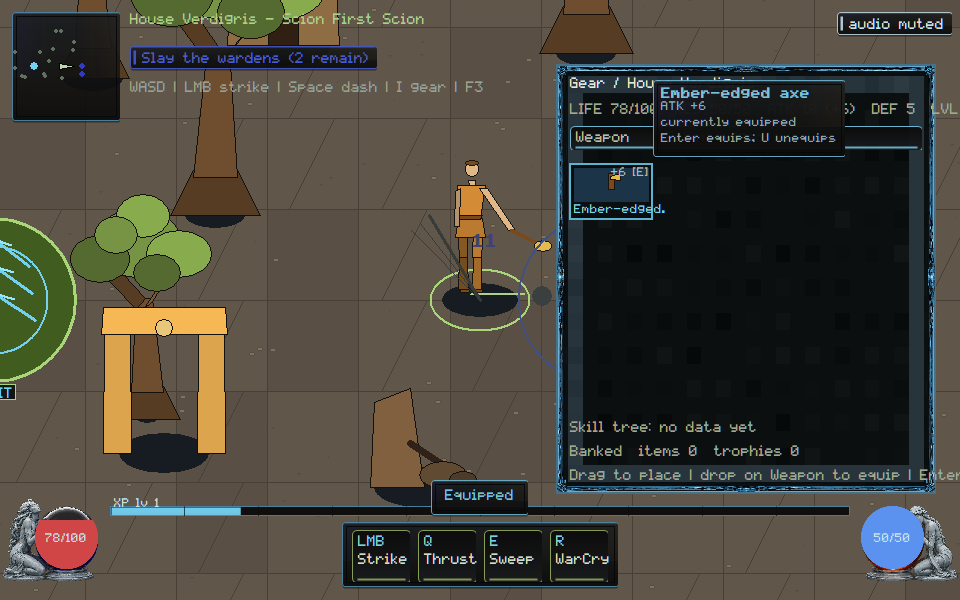
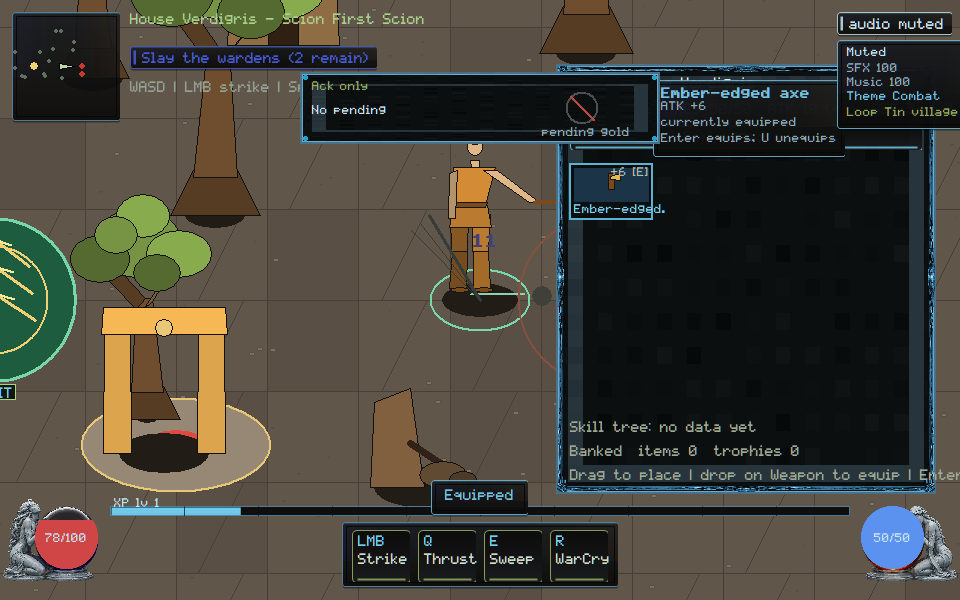
native: name ack-only equip, Base Gear sources, and software quad so pending gold, dormant ATK, and unknown GPU cannot certify

diff --git a/native/client/main.cpp b/native/client/main.cpp
@@ -508,6 +508,9 @@ struct ClientState {
   bool visual_target_review_strip = false;
   bool route_map_review_strip = false;
   bool vital_orbs_review_strip = false;
+  bool equipment_review_strip = false;
+  bool stat_explain_review_strip = false;
+  bool gpu_sample_review_strip = false;
   bool debug_overlay = false;
   // Last full paint_scene duration in milliseconds (F3 overlay); the honest
   // per-frame budget readout that catches presentation-cost regressions.
@@ -7706,6 +7709,123 @@ void paint_vital_orbs_review_strip(ClientState& state, HDC dc, const RECT& bound
   SelectObject(dc, old_font);
 }
 
+void paint_equipment_review_strip(ClientState& state, HDC dc, const RECT& bounds,
+                                  render::List& rl) {
+  if (!state.equipment_review_strip) return;
+  const int s = hud_scale(static_cast<int>(bounds.bottom));
+  const int pane_w = 360 * s;
+  const int pane_h = 72 * s;
+  const int left = (static_cast<int>(bounds.right) - pane_w) / 2;
+  const int top = 72 * s;
+  RECT pane{left, top, left + pane_w, top + pane_h};
+  if (!draw_framekit_nine(state.billboards, dc, state.billboards.fk_panel, pane))
+    skin::panel(dc, pane, skin::kVerdigris, 235, 8.0f);
+  rl.push_back({render::Op::Hud, static_cast<double>(left),
+                static_cast<double>(top), 0.0, 1, "equipment-strip"});
+  SetBkMode(dc, TRANSPARENT);
+  HGDIOBJ old_font = SelectObject(dc, skin::font_small());
+  SetTextColor(dc, skin::kVerdigris);
+  const char* title = verdigris::client::ui::owner_ack_only_label();
+  TextOutA(dc, left + 12 * s, top + 8 * s, title, static_cast<int>(strlen(title)));
+  SetTextColor(dc, skin::kInk);
+  const char* body = verdigris::client::ui::owner_no_pending_label();
+  TextOutA(dc, left + 12 * s, top + 32 * s, body, static_cast<int>(strlen(body)));
+  const int rx = left + pane_w - 78 * s;
+  const int ry = top + 36 * s;
+  ring_ellipse(dc, rx, ry, 16 * s, 16 * s, RGB(80, 80, 80), 2);
+  draw_line(dc, rx - 12 * s, ry - 12 * s, rx + 12 * s, ry + 12 * s, RGB(185, 72, 69),
+            2);
+  SetTextColor(dc, skin::kInkDim);
+  const char* rejected = "pending gold";
+  TextOutA(dc, rx - 40 * s, top + pane_h - 18 * s, rejected,
+           static_cast<int>(strlen(rejected)));
+  rl.push_back({render::Op::Hud, static_cast<double>(left + 12 * s),
+                static_cast<double>(top + 8 * s), 0.0, 1, "ui:ack-only"});
+  rl.push_back({render::Op::Hud, static_cast<double>(left + 12 * s),
+                static_cast<double>(top + 32 * s), 0.0, 1, "ui:no-pending"});
+  rl.push_back({render::Op::Hud, static_cast<double>(rx), static_cast<double>(ry),
+                0.0, 0, "ui-strip:pending-gold-rejected"});
+  SelectObject(dc, old_font);
+}
+
+void paint_stat_explain_review_strip(ClientState& state, HDC dc, const RECT& bounds,
+                                     render::List& rl) {
+  if (!state.stat_explain_review_strip) return;
+  const int s = hud_scale(static_cast<int>(bounds.bottom));
+  const int pane_w = 360 * s;
+  const int pane_h = 72 * s;
+  const int left = (static_cast<int>(bounds.right) - pane_w) / 2;
+  const int top = 72 * s;
+  RECT pane{left, top, left + pane_w, top + pane_h};
+  if (!draw_framekit_nine(state.billboards, dc, state.billboards.fk_panel, pane))
+    skin::panel(dc, pane, skin::kVerdigris, 235, 8.0f);
+  rl.push_back({render::Op::Hud, static_cast<double>(left),
+                static_cast<double>(top), 0.0, 1, "stat-explain-strip"});
+  SetBkMode(dc, TRANSPARENT);
+  HGDIOBJ old_font = SelectObject(dc, skin::font_small());
+  SetTextColor(dc, skin::kVerdigris);
+  const char* title = verdigris::client::ui::owner_base_gear_label();
+  TextOutA(dc, left + 12 * s, top + 8 * s, title, static_cast<int>(strlen(title)));
+  SetTextColor(dc, skin::kInk);
+  const char* body = verdigris::client::ui::owner_cond_off_label();
+  TextOutA(dc, left + 12 * s, top + 32 * s, body, static_cast<int>(strlen(body)));
+  const int rx = left + pane_w - 78 * s;
+  const int ry = top + 36 * s;
+  ring_ellipse(dc, rx, ry, 16 * s, 16 * s, RGB(80, 80, 80), 2);
+  draw_line(dc, rx - 12 * s, ry - 12 * s, rx + 12 * s, ry + 12 * s, RGB(185, 72, 69),
+            2);
+  SetTextColor(dc, skin::kInkDim);
+  const char* rejected = "dormant ATK";
+  TextOutA(dc, rx - 40 * s, top + pane_h - 18 * s, rejected,
+           static_cast<int>(strlen(rejected)));
+  rl.push_back({render::Op::Hud, static_cast<double>(left + 12 * s),
+                static_cast<double>(top + 8 * s), 0.0, 1, "ui:base-gear"});
+  rl.push_back({render::Op::Hud, static_cast<double>(left + 12 * s),
+                static_cast<double>(top + 32 * s), 0.0, 1, "ui:cond-off"});
+  rl.push_back({render::Op::Hud, static_cast<double>(rx), static_cast<double>(ry),
+                0.0, 0, "ui-strip:dormant-atk-rejected"});
+  SelectObject(dc, old_font);
+}
+
+void paint_gpu_sample_review_strip(ClientState& state, HDC dc, const RECT& bounds,
+                                   render::List& rl) {
+  if (!state.gpu_sample_review_strip) return;
+  const int s = hud_scale(static_cast<int>(bounds.bottom));
+  const int pane_w = 360 * s;
+  const int pane_h = 72 * s;
+  const int left = (static_cast<int>(bounds.right) - pane_w) / 2;
+  const int top = 72 * s;
+  RECT pane{left, top, left + pane_w, top + pane_h};
+  if (!draw_framekit_nine(state.billboards, dc, state.billboards.fk_panel, pane))
+    skin::panel(dc, pane, skin::kVerdigris, 235, 8.0f);
+  rl.push_back({render::Op::Hud, static_cast<double>(left),
+                static_cast<double>(top), 0.0, 1, "gpu-sample-strip"});
+  SetBkMode(dc, TRANSPARENT);
+  HGDIOBJ old_font = SelectObject(dc, skin::font_small());
+  SetTextColor(dc, skin::kVerdigris);
+  const char* title = verdigris::gpu::owner_software_quad_label();
+  TextOutA(dc, left + 12 * s, top + 8 * s, title, static_cast<int>(strlen(title)));
+  SetTextColor(dc, skin::kInk);
+  const char* body = verdigris::gpu::owner_no_d3d_label();
+  TextOutA(dc, left + 12 * s, top + 32 * s, body, static_cast<int>(strlen(body)));
+  const int rx = left + pane_w - 78 * s;
+  const int ry = top + 36 * s;
+  ring_ellipse(dc, rx, ry, 16 * s, 16 * s, RGB(80, 80, 80), 2);
+  draw_line(dc, rx - 12 * s, ry - 12 * s, rx + 12 * s, ry + 12 * s, RGB(185, 72, 69),
+            2);
+  SetTextColor(dc, skin::kInkDim);
+  const char* rejected = "unknown GPU";
+  TextOutA(dc, rx - 40 * s, top + pane_h - 18 * s, rejected,
+           static_cast<int>(strlen(rejected)));
+  rl.push_back({render::Op::Hud, static_cast<double>(left + 12 * s),
+                static_cast<double>(top + 8 * s), 0.0, 1, "gpu:software-quad"});
+  rl.push_back({render::Op::Hud, static_cast<double>(left + 12 * s),
+                static_cast<double>(top + 32 * s), 0.0, 1, "gpu:no-d3d"});
+  rl.push_back({render::Op::Hud, static_cast<double>(rx), static_cast<double>(ry),
+                0.0, 0, "gpu-strip:unknown-rejected"});
+  SelectObject(dc, old_font);
+}
+
 const char* attack_stage_label(vector_art::Pose::AttackStage stage) {
   switch (stage) {
     case vector_art::Pose::AttackStage::Windup:
@@ -8762,6 +8882,9 @@ void paint_scene(ClientState& state, HDC dc, const RECT& bounds) {
   paint_visual_target_review_strip(state, dc, bounds, rl);
   paint_route_map_review_strip(state, dc, bounds, rl);
   paint_vital_orbs_review_strip(state, dc, bounds, rl);
+  paint_equipment_review_strip(state, dc, bounds, rl);
+  paint_stat_explain_review_strip(state, dc, bounds, rl);
+  paint_gpu_sample_review_strip(state, dc, bounds, rl);
 
   state.render_list = std::move(rl);
   if (state.debug_overlay) {
@@ -12479,6 +12602,22 @@ int scenario_gpu_sample() {
                  "gpu-sample: shutdown releases the window buffer");
   scenario_check(!sample.draw_textured_quad(),
                  "gpu-sample: drawing after shutdown fails closed");
+  const std::string png = dir + "\\gpu-sample-960x600.png";
+  hud.gpu_sample_review_strip = true;
+  scenario_check(reference_present(hud, 960, 600, png),
+                 "gpu-sample: owner HUD capture written");
+  bool software_quad = false;
+  bool no_d3d = false;
+  bool unknown = false;
+  for (const auto& item : hud.render_list) {
+    if (item.op != render::Op::Hud) continue;
+    if (item.label == "gpu:software-quad") software_quad = true;
+    if (item.label == "gpu:no-d3d") no_d3d = true;
+    if (item.label == "gpu-strip:unknown-rejected") unknown = true;
+  }
+  scenario_check(software_quad && no_d3d,
+                 "gpu-sample: live HUD names Software quad and No D3D");
+  scenario_check(unknown, "gpu-sample: live HUD rejects unknown GPU");
   return scenario_failures;
 }
 
@@ -13418,8 +13557,21 @@ int scenario_equipment() {
     return scenario_failures;
   }
   const std::string png = dir + "\\equipment-960x600.png";
+  state.equipment_review_strip = true;
   scenario_check(reference_present(state, 960, 600, png),
                  "equipment: compare-plate capture written");
+  bool ack_only = false;
+  bool no_pending = false;
+  bool pending_gold = false;
+  for (const auto& item : state.render_list) {
+    if (item.op != render::Op::Hud) continue;
+    if (item.label == "ui:ack-only") ack_only = true;
+    if (item.label == "ui:no-pending") no_pending = true;
+    if (item.label == "ui-strip:pending-gold-rejected") pending_gold = true;
+  }
+  scenario_check(ack_only && no_pending,
+                 "equipment: live HUD names Ack only and No pending");
+  scenario_check(pending_gold, "equipment: live HUD rejects pending gold");
   return scenario_failures;
 }
 
@@ -15073,8 +15225,21 @@ int scenario_stat_explain() {
     return scenario_failures;
   }
   const std::string png = dir + "\\stat-explain-960x600.png";
+  state.stat_explain_review_strip = true;
   scenario_check(reference_present(state, 960, 600, png),
                  "stat-explain: capture written");
+  bool base_gear = false;
+  bool cond_off = false;
+  bool dormant_atk = false;
+  for (const auto& item : state.render_list) {
+    if (item.op != render::Op::Hud) continue;
+    if (item.label == "ui:base-gear") base_gear = true;
+    if (item.label == "ui:cond-off") cond_off = true;
+    if (item.label == "ui-strip:dormant-atk-rejected") dormant_atk = true;
+  }
+  scenario_check(base_gear && cond_off,
+                 "stat-explain: live HUD names Base Gear and Cond off");
+  scenario_check(dormant_atk, "stat-explain: live HUD rejects dormant ATK");
   return scenario_failures;
 }
 

diff --git a/native/client/ui/integrate-equipment-and-comparison.hpp b/native/client/ui/integrate-equipment-and-comparison.hpp
@@ -64,4 +64,7 @@ inline paper_doll::Status try_slot(paper_doll::State& doll,
   return paper_doll::equip(doll, item, slot);
 }
 
+inline const char* owner_ack_only_label() { return "Ack only"; }
+inline const char* owner_no_pending_label() { return "No pending"; }
+
 }  // namespace verdigris::client::ui

diff --git a/native/client/ui/add-readable-stat-explanations.hpp b/native/client/ui/add-readable-stat-explanations.hpp
@@ -34,4 +34,7 @@ inline int extra_source_rows(const StatSources& src) {
   return src.expanded ? 4 : 0;
 }
 
+inline const char* owner_base_gear_label() { return "Base Gear"; }
+inline const char* owner_cond_off_label() { return "Cond off"; }
+
 }  // namespace verdigris::client::ui

diff --git a/native/renderer/gpu/build-an-isolated-cross-platform-gpu-sample.hpp b/native/renderer/gpu/build-an-isolated-cross-platform-gpu-sample.hpp
@@ -125,4 +125,7 @@ struct Sample {
   }
 };
 
+inline const char* owner_software_quad_label() { return "Software quad"; }
+inline const char* owner_no_d3d_label() { return "No D3D"; }
+
 }  // namespace verdigris::gpu

diff --git a/docs/execution/CROSSWALK.md b/docs/execution/CROSSWALK.md
@@ -165,6 +165,7 @@ voice. Live mixer paints Theme Combat / Recovery / None. A mute chip
 alone cannot certify the phase. Scenario `music-phase`. Device mute still
 silences waveOut. Evidence `docs/execution/evidence/VG-SOUND-008.json`.
 VG-GPU-001: isolated software backend (64×64 textured quad + shutdown).
+Owner strip paints Software quad / No D3D. Unknown GPU cannot certify.
 Not a Windows-only D3D proof. Scenario `gpu-sample`. Evidence
 `docs/execution/evidence/VG-GPU-001.json`.
 VG-GPU-002: Telegraph draw class copied to handle-free packets. Owner
@@ -227,10 +228,11 @@ Live mixer paints persisted SFX/Music numbers while muted. Owner strip
 paints Mixer prefs / SFX persist. A mute chip alone cannot certify.
 Scenario `audio-prefs`. Evidence
 `docs/execution/evidence/VG-SOUND-006.json`.
-VG-UI-003: equip HUD is ack-only (`equip:ok` after ItemEquipped). Pending
-compare cannot gold-frame as equipped. Owner gear pane paints
-`Skill tree: no data yet`; PaneStat keeps `TREE no authoritative data`.
-Scenario `equipment`. Evidence `docs/execution/evidence/VG-UI-003.json`.
+VG-UI-003: equip HUD is ack-only (`equip:ok` after ItemEquipped). Owner
+strip paints Ack only / No pending. Pending compare cannot gold-frame as
+equipped. Owner gear pane paints `Skill tree: no data yet`; PaneStat
+keeps `TREE no authoritative data`. Scenario `equipment`. Evidence
+`docs/execution/evidence/VG-UI-003.json`.
 VG-PERF-007: 32 resize/effect cycles; floor bitmaps stay 1. Scenario
 `memory-soak`. Evidence `docs/execution/evidence/VG-PERF-007.json`.
 VG-SOUND-007: mixer tape from mixed pack + elite; live HUD paints
@@ -311,9 +313,11 @@ wardens. The owner card titles Tin village, not `route:tin:1:0`. Owner
 Demo journeys not reimplemented. Scenario `route-map`. Evidence
 `docs/execution/evidence/VG-UI-005.json`.
 VG-UI-004: `stat-explain` — expanded ATK names base/gear/passive/cond on
-HUD ops. Owner paint uses Base/Gear, not `src` jargon. Slice builds on
-the sheet are role · gear chips; tactics stay on HUD ops. A dormant
-conditional cannot fold into Attack. Core STAT stays Kimi.
+HUD ops. Owner strip paints Base Gear / Cond off. Owner paint uses
+Base/Gear, not `src` jargon. Slice builds on the sheet are role · gear
+chips; tactics stay on HUD ops. A dormant conditional cannot fold into
+Attack. Core STAT stays Kimi. Scenario `stat-explain`. Evidence
+`docs/execution/evidence/VG-UI-004.json`.
 VG-UI-002: `pack-drag` — reject cannot lose, duplicate, or silently equip.
 Owner strip paints Pack place / Reject keeps. Silent equip cannot
 certify. Core inventory-move stays Kimi.

diff --git a/docs/rebuild/HANDOFF.md b/docs/rebuild/HANDOFF.md
@@ -1,5 +1,18 @@
 # Native reconstitution handoff
 
+## 2026-09-06 — ack only, Base Gear, software quad (Cursor)
+
+- VG-UI-003: owner Ack only strip paints No pending. Pending gold cannot
+  certify. Compare still follows the acknowledged seat. ITEM algebra
+  stays Kimi. TASK-0156 PaneStat string is unchanged.
+- VG-UI-004: owner Base Gear strip paints Cond off. Dormant ATK cannot
+  certify. Expanded Attack still excludes inactive conditional. Core
+  STAT stays Kimi.
+- VG-GPU-001: owner Software quad strip paints No D3D. Unknown GPU cannot
+  certify. 64×64 BMP hash is unchanged. Not a Windows-only D3D proof.
+- Scenarios `equipment` / `stat-explain` / `gpu-sample` PASS. Captures
+  viewed. Not Owner Demo. Not TASK-0108.
+
 ## 2026-09-06 — adult camera, Tin village, life left (Cursor)
 
 - VG-ART-001: owner Adult camera strip paints Bronze palette. Chibi head

diff --git a/orchestration/CURSOR_KIMI_LANES.md b/orchestration/CURSOR_KIMI_LANES.md
@@ -756,3 +756,14 @@ Please move off that branch before taking a new native path.
 - **Stay off** `native/client/main.cpp` and `docs/execution/**`. SEC/CORE
   remain yours. GOV-002 still unstamped.
 
+## Cursor reply (2026-09-06, ack only, Base Gear, software quad)
+
+- **Lease:** `main.cpp` still **ACTIVE**. `remote_session.cpp` stays
+  **RELEASED**. Do not re-spec TASK-0108 core/wire (`3b929637`).
+- **Landed this push:** VG-UI-003 — Ack only / No pending; pending gold
+  rejected. VG-UI-004 — Base Gear / Cond off; dormant ATK rejected.
+  VG-GPU-001 — Software quad / No D3D; unknown GPU rejected. Captures
+  viewed. ITEM/STAT stay yours. Not Owner Demo.
+- **Stay off** `native/client/main.cpp` and `docs/execution/**`. SEC/CORE
+  remain yours. GOV-002 still unstamped.
+
